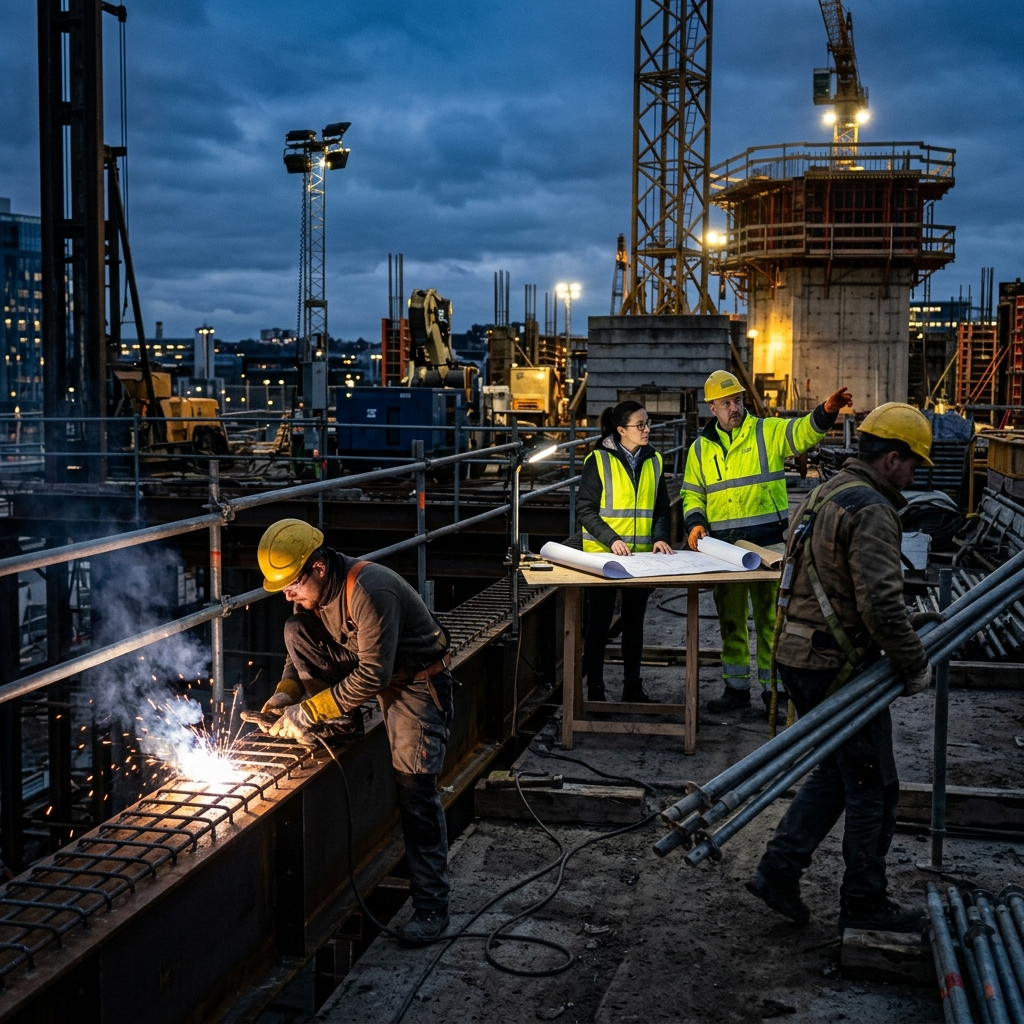
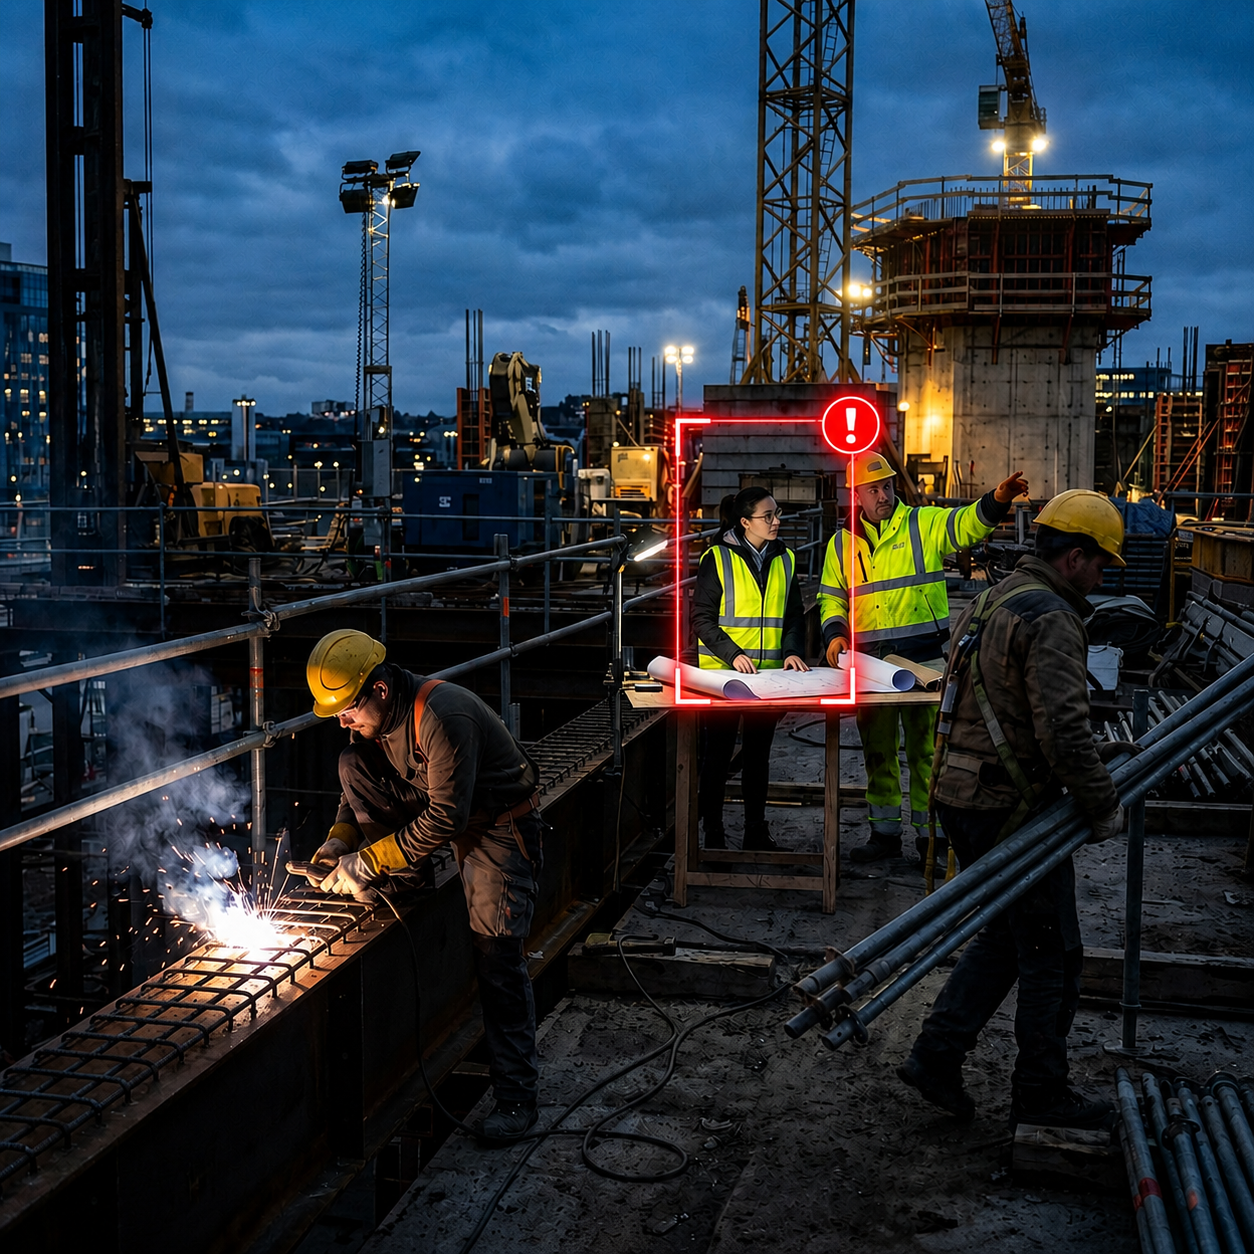
히어로이미지 애니메이션 추가

diff --git a/src/components/sections/HeroSection.css b/src/components/sections/HeroSection.css
@@ -5,7 +5,7 @@
   align-items: flex-start;
   position: relative;
   overflow: hidden;
-  background-image: url('/hero_bg.gif');
+  background-image: url('/hero_bg_gif.gif');
   /*background-image: url('/hero_bg.jpg');*/
   background-size: contain;
   background-position: center;
@@ -54,6 +54,10 @@
   animation: pulse-red 2s infinite;
 }
 
+.hero-top-title {
+  padding-bottom: 20px;
+}
+
 .hero-title {
   font-size: 3.5rem;
   font-weight: 700;
@@ -80,11 +84,31 @@
   color: var(--color-accent);
 }
 
+.hero-buttons {
+  display: flex;
+  gap: 16px;
+  margin-top: 10px;
+}
+
 .hero-btn {
   font-size: 1.1rem;
   padding: 16px 32px;
   border-radius: 8px;
   background-color: var(--color-accent);
+  color: white;
+  display: inline-flex;
+  align-items: center;
+  justify-content: center;
+  gap: 8px;
+  border: 2px solid transparent;
+  transition: all 0.3s ease;
+  min-width: 240px;
+  /* 두 버튼의 넓이를 동일하게 맞춤 */
+}
+
+.hero-btn.btn-outline {
+  background-color: transparent;
+  border-color: var(--color-accent);
 }
 
 /* 대시보드 비주얼 연출 */
@@ -99,7 +123,7 @@
   right: 0;
   top: 0px;
   width: 90%;
-  background: rgba(15, 23, 42, 0.8);
+  /*background: rgba(15, 23, 42, 0.8);*/
   -webkit-backdrop-filter: blur(12px);
   backdrop-filter: blur(12px);
   border: 1px solid rgba(255, 255, 255, 0.1);
@@ -264,9 +288,17 @@
 }
 
 @media (max-width: 992px) {
+  .hero {
+    /*background-position: top center;*/
+    background-position-x: center;
+    background-position-y: 280px;
+    padding-top: calc(var(--header-height) + 40px);
+  }
+
   .hero-container {
     grid-template-columns: 1fr;
-    text-align: center;
+    text-align: left;
+    gap: 40px;
   }
 
   .hero-features {
@@ -274,13 +306,18 @@
     text-align: left;
   }
 
+  .hero-buttons {
+    flex-direction: column;
+    gap: 12px;
+  }
+
   .hero-btn {
-    display: flex;
-    align-items: center;
-    gap: 8px;
     margin: 0 auto 0 0;
-    /* 왼쪽 정렬을 위해 오른쪽 여백을 auto로 설정 */
-    width: max-content;
+    width: 240px;
+  }
+
+  .hero-visual {
+    height: auto;
   }
 
   .dashboard-card {

diff --git a/src/components/sections/HeroSection.jsx b/src/components/sections/HeroSection.jsx
@@ -12,14 +12,14 @@ const HeroSection = () => {
             <span className="live-dot"></span> 중대재해 처벌법 대책 마련 - 지금 설치 안하면 책임은 회사가 집니다.
           </div>
 
-          <h2 className="hero-title">
+          <h2 className="hero-top-title">
             <span className="text-gradient"> AI</span> 산업안전 플랫폼
           </h2>
 
           <h1 className="hero-title">
             AI가 위험을 <br />
             <span className="text-gradient"> 실시간</span> 감지하고 <br />
-            사고를 예방합니다
+            사고를 예방합니다.
           </h1>
 
           <ul className="hero-features">
@@ -28,12 +28,14 @@ const HeroSection = () => {
             <li><CheckCircle2 className="check-icon" /> 전국 설치 대응 가능</li>
           </ul>
 
-          <button className="btn btn-primary hero-btn">
-            무료 견적 받기 <ChevronRight size={18} />
-          </button>
-          <button className="btn btn-primary hero-btn">
-            제품 자세히 보기 <ChevronRight size={18} />
-          </button>
+          <div className="hero-buttons">
+            <button className="btn btn-primary hero-btn">
+              무료 견적 받기 <ChevronRight size={18} />
+            </button>
+            <button className="btn btn-outline hero-btn">
+              제품 자세히 보기 <ChevronRight size={18} />
+            </button>
+          </div>
         </div>
 
         <div className="hero-visual">

diff --git a/src/components/layout/Header.css b/src/components/layout/Header.css
@@ -22,7 +22,7 @@
   justify-content: space-between;
   align-items: center;
   height: 100%;
-  padding: 0 20px;
+  padding: 0 0px;
 }
 
 .logo-img {
@@ -100,6 +100,10 @@
 }
 
 @media (max-width: 992px) {
+  .header-container {
+    padding: 0 20px;
+  }
+
   .desktop-nav {
     display: none;
   }

diff --git a/src/index.css b/src/index.css
@@ -24,7 +24,7 @@
   --font-family: 'Pretendard', -apple-system, BlinkMacSystemFont, 'Segoe UI', Roboto, Helvetica, Arial, sans-serif;
 
   /* Layout */
-  --max-width: 1460px;
+  --max-width: 1390px;
   --header-height: 80px;
 }
 